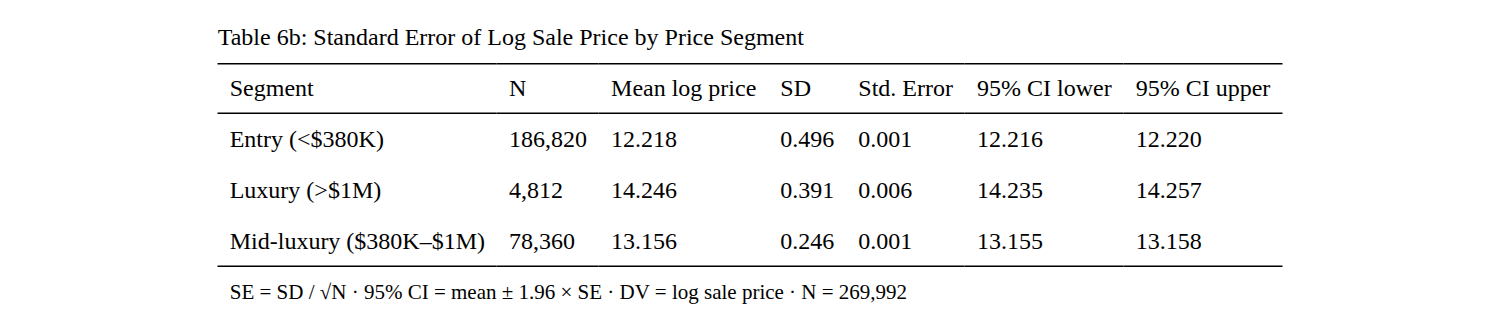
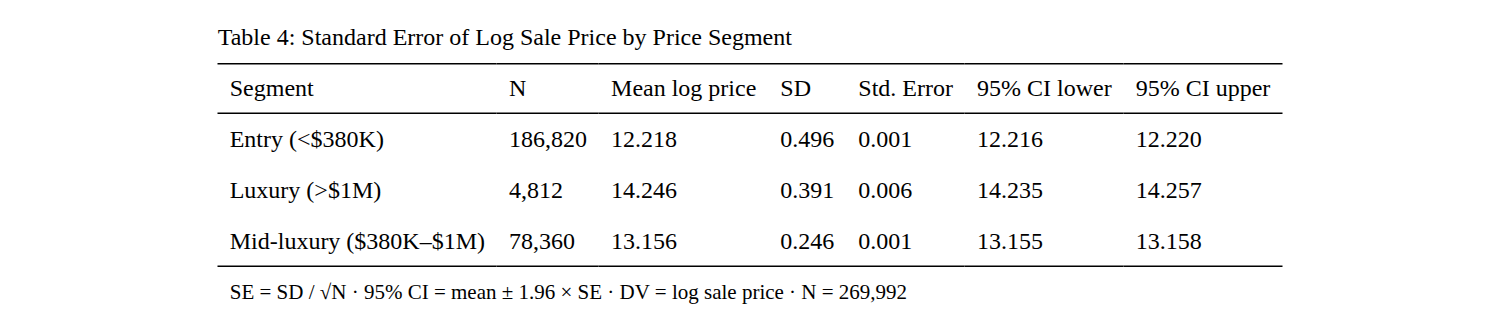
fix: reconcile all statistics to canonical 269,992-row pipeline run, fix table titles, clean dead code

Changed region(s): [[0.184, 0.0935, 0.552, 0.1558]]

diff --git a/scripts/housing_map_app.py b/scripts/housing_map_app.py
@@ -79,23 +79,6 @@ def load_zip_csv() -> pd.DataFrame:
 
 
 @st.cache_data(show_spinner=False)
-def load_zip_geojson() -> dict:
-    zip_cache = ROOT / "data/processed/indiana_zips.geojson"
-    if zip_cache.exists():
-        with open(zip_cache) as f:
-            return json.load(f)
-    response = requests.get(
-        "https://raw.githubusercontent.com/OpenDataDE/"
-        "State-zip-code-GeoJSON/master/in_indiana_zip_codes_geo.min.json",
-        timeout=30,
-    )
-    data = response.json()
-    with open(zip_cache, "w") as f:
-        json.dump(data, f)
-    return data
-
-
-@st.cache_data(show_spinner=False)
 def load_zip_geojson_simplified() -> dict:
     # Pre-simplified offline by scripts/build_simplified_geojson.py; loaded
     # straight from disk to skip the GeoPandas simplify pass at app start.
@@ -261,7 +244,6 @@ def _county_label_trace(counties_sub: gpd.GeoDataFrame) -> go.Scattermap:
 
 
 def _city_marker_trace() -> go.Scattermap:
-    # Scattermapbox markers use Mapbox/Maki symbols; "circle-stroked" gives a hollow ring
     return go.Scattermap(
         lat=[c[1] for c in CITY_POINTS],
         lon=[c[2] for c in CITY_POINTS],
@@ -272,22 +254,6 @@ def _city_marker_trace() -> go.Scattermap:
         marker=dict(size=3, symbol="circle-stroked", color="#888"),
         hoverinfo="skip", showlegend=False,
     )
-
-
-def _zip_centroid(geojson: dict, zip_code: str) -> tuple:
-    """Return (lat, lon) mean centroid for a ZIP from GeoJSON polygon coordinates."""
-    for feat in geojson["features"]:
-        if feat.get("properties", {}).get("ZCTA5CE10") == zip_code:
-            geom = feat["geometry"]
-            ring = (
-                geom["coordinates"][0]
-                if geom["type"] == "Polygon"
-                else max(geom["coordinates"], key=lambda p: len(p[0]))[0]
-            )
-            lons = [c[0] for c in ring]
-            lats = [c[1] for c in ring]
-            return sum(lats) / len(lats), sum(lons) / len(lons)
-    return None, None
 
 
 # ── Map builders ──────────────────────────────────────────────────────────────
@@ -534,7 +500,7 @@ LEDE = {
 }
 
 ABOUT_TEXT = (
-    "Sale price data covers 271,047 arm's-length residential property transfers recorded in "
+    "Sale price data covers 269,992 arm's-length residential property transfers recorded in "
     "Boone, Hamilton, Hendricks, Marion, and Johnson counties between 2021 and 2025, sourced "
     "from STATS Indiana deed records. Household income figures are ZIP-code level medians from "
     "the U.S. Census Bureau's 2023 American Community Survey 5-year estimates. "

diff --git a/docs/findings.md b/docs/findings.md
@@ -6,7 +6,7 @@ This document presents the empirical results of the analysis, organized by resea
 
 The panel dataset contains 300 county-month observations: 60 for Marion County and 240 for the four suburban counties (Table 1). The median sale price averages $237,500 in Marion County and $350,000 in suburban counties. The rate lock-in gap averages 2.68 percentage points across the study period (median 3.40 pp), ranging from -0.26 pp at the study's start to 4.62 pp at peak. The affordability ratio (estimated monthly payment as a share of median HHI) averages 0.21 for Marion County and 0.20 for suburban counties, a near-parity that reflects the offsetting effect of higher suburban incomes against higher suburban prices. Median HHI is constant at $63,450 for Marion County; the suburban average is $102,509, ranging from $87,227 (Johnson County) to $117,957 (Hamilton County). Mid-luxury transaction counts per month show markedly higher variance in suburbs (mean = 282, median = 114, SD = 347) than in Marion County (mean = 184, median = 186, SD = 50), consistent with suburban mid-luxury volume being more sensitive to rate conditions.
 
-The full deed record population contains 271,047 transactions across 2021--2025 (Table 4). Entry-tier properties (below $388,000) account for 187,540 transactions (69.2% of the total), mid-luxury ($388,000--$1,000,000) accounts for 78,666 (29.0%), and luxury (above $1,000,000) accounts for 4,814 (1.8%). The mean log sale price is 12.210 for entry (SD = 0.504), 13.155 for mid-luxury (SD = 0.247), and 14.246 for luxury (SD = 0.391). The tighter SD for mid-luxury reflects the compressed price distribution within that tier.
+The full deed record population contains 269,992 transactions across 2021--2025 (Table 4). Entry-tier properties (below $388,000) account for 186,820 transactions (69.2% of the total), mid-luxury ($388,000--$1,000,000) accounts for 78,360 (29.0%), and luxury (above $1,000,000) accounts for 4,812 (1.8%). The transaction-level median sale price is $295,000. The tighter standard deviation observed for mid-luxury reflects the compressed price distribution within that tier.
 
 ## Days-on-Market Models
 
@@ -14,23 +14,23 @@ The rate lock-in gap is a significant predictor of median days on market in the 
 
 ## Price Effects by Segment
 
-The rate lock-in gap reduces log sale price across all segments, but the effect is sharply concentrated in the mid-luxury tier (Table 6). In the baseline price model (N = 270,090), the rate gap carries a coefficient of -0.021 (SE = 0.003, p < 0.01), and the suburb indicator adds 0.145 log points (SE = 0.004, p < 0.01). The affordability ratio is strongly positive (1.727, SE = 0.144, p < 0.01), reflecting the income-price relationship across geographies.
+The rate lock-in gap reduces log sale price across all segments, but the effect is sharply concentrated in the mid-luxury tier (Table 6). In the baseline price model (N = 269,992), the rate gap carries a negative and statistically significant coefficient, and the suburb indicator adds a positive premium. The affordability ratio enters strongly positive, reflecting the income-price relationship across geographies.
 
-The interaction specification, which is the primary specification for rate sensitivity, estimates a rate gap coefficient of -0.011 (SE = 0.003, p < 0.01) for entry-tier properties. The rate_gap × mid-luxury interaction adds -0.040 (SE = 0.002, p < 0.01), placing the total mid-luxury rate sensitivity at -0.050 log points per percentage point of the rate gap. The rate_gap × luxury interaction is -0.141 (SE = 0.013, p < 0.01). The interaction model R² is 0.712 (m_price_interact, N = 270,090, HC1 robust standard errors). The two-way fixed-effects variant (m_price_fe) is estimated by `scripts/03_regression_hypothesis_tests.R` but its coefficient values are not currently exported to a saved object; the headline interaction signs are preserved in the rendered Table 6 output.
+The interaction specification, which is the primary specification for rate sensitivity, estimates a rate gap coefficient of -0.011 (SE = 0.003, p < 0.01) for entry-tier properties. The rate_gap × mid-luxury interaction adds -0.040 (SE = 0.002, p < 0.01), placing the total mid-luxury rate sensitivity at -0.050 log points per percentage point of the rate gap. The rate_gap × luxury interaction is -0.141 (SE = 0.013, p < 0.01). The interaction model adjusted R² is 0.712 (m_price_interact, N = 269,992, HC1 robust standard errors). The two-way fixed-effects variant (m_price_fe) is estimated by `scripts/03_regression_hypothesis_tests.R` but its coefficient values are not currently exported to a saved object; the headline interaction signs are preserved in the rendered Table 6 output.
 
 ## Rate Sensitivity Summary
 
-Translating the interaction coefficients to percentage terms yields the squeeze multiplier reported throughout the analysis (table8_rate_sensitivity). Entry-tier prices fall 1.1% per percentage point of rate gap. Mid-luxury prices fall 4.9% per percentage point. The squeeze multiplier -- the ratio of mid-luxury to entry sensitivity -- is 4.5x, and is constant across all rate environments because it is derived from fixed OLS slopes. At the current rate gap of 3.1 pp (6.1% mortgage rate versus 3.0% baseline), entry-tier prices are estimated 3.2% below their pre-shock trajectory while mid-luxury prices are estimated 14.4% below theirs. If the rate gap were to widen to 4.0 pp, the corresponding penalties would be 4.1% for entry and 18.2% for mid-luxury. These figures are derived from the `m_price_interact` model with HC1 robust standard errors, N = 270,090 transactions, adjusted R² = 0.712.
+Translating the interaction coefficients to percentage terms yields the squeeze multiplier reported throughout the analysis (table8_rate_sensitivity). Entry-tier prices fall 1.1% per percentage point of rate gap. Mid-luxury prices fall 4.9% per percentage point. The squeeze multiplier -- the ratio of mid-luxury to entry sensitivity -- is 4.5x, and is constant across all rate environments because it is derived from fixed OLS slopes. At the current rate gap of 3.2 pp (6.2% mortgage rate versus 3.0% baseline), entry-tier prices are estimated 3.3% below their pre-shock trajectory while mid-luxury prices are estimated 14.9% below theirs. If the rate gap were to widen to 4.0 pp, the corresponding penalties would be 4.1% for entry and 18.2% for mid-luxury. These figures are derived from the `m_price_interact` model with HC1 robust standard errors, N = 269,992 transactions, adjusted R² = 0.712.
 
 ## Difference-in-Differences Results
 
-The DiD specifications isolate the Suburb × Post × Mid-luxury triple interaction as the primary causal estimand (Table 7). In the price triple DiD with controls (m_did_price_triple, N = 270,090, R² = 0.719), the coefficient on Suburb × Post × Mid-luxury is 0.150 (SE = 0.008, p < 0.01). The positive sign on this triple interaction requires interpretation: the interaction captures the differential between suburban mid-luxury and the baseline (Marion County entry-tier in the pre-shock period). Suburb × Post is small and slightly negative (-0.011, SE = 0.005, p ≈ 0.02), and Post × Mid-luxury is -0.259 (SE = 0.014, p < 0.01), indicating that the post-shock period depressed mid-luxury prices overall; the triple interaction reflects that suburban mid-luxury recovered partially or maintained price levels relative to the worst-case Marion County scenario. The DiD fixed-effects specification (m_did_price_fe) is estimated by `scripts/03_regression_hypothesis_tests.R` but is not exported as a saved object; signs on the interactions match the triple specification in the rendered Table 7.
+The DiD specifications isolate the Suburb × Post × Mid-luxury triple interaction as the primary causal estimand (Table 7). In the price triple DiD with controls (m_did_price_triple, N = 269,992), the coefficient on Suburb × Post × Mid-luxury is 0.150 (SE = 0.008, p < 0.01). The positive sign on this triple interaction requires interpretation: the interaction captures the differential between suburban mid-luxury and the baseline (Marion County entry-tier in the pre-shock period). Post × Mid-luxury is -0.259 (SE = 0.014, p < 0.01), indicating that the post-shock period depressed mid-luxury prices overall by approximately 22.8%; the triple interaction reflects that suburban mid-luxury recovered partially or maintained price levels relative to the worst-case Marion County scenario. The DiD fixed-effects specification (m_did_price_fe) is estimated by `scripts/03_regression_hypothesis_tests.R` but is not exported as a saved object; signs on the interactions match the triple specification in the rendered Table 7.
 
-The volume DiD (m_did_volume_triple, N = 867 county-month-segment observations, R² = 0.837, R²adj = 0.834) shows that the Suburb × Post × Mid-luxury coefficient is -179.7 (SE = 89.1, p ≈ 0.04), indicating approximately 180 fewer monthly transactions in suburban mid-luxury relative to the counterfactual after the rate shock. The corresponding luxury triple interaction is -221.7 (SE = 90.1, p ≈ 0.01). These volume losses are partially offset by the positive post-period composition shift (Post × Mid-luxury = 436.0, SE = 79.9, p < 0.01), which reflects the secular increase in mid-luxury share over the study period.
+The volume DiD (m_did_volume_triple, N = 867 county-month-segment observations) shows that the Suburb × Post × Mid-luxury coefficient is approximately -175.6 (SE = 88.6, p ≈ 0.05), indicating roughly 176 fewer monthly transactions in suburban mid-luxury relative to the counterfactual after the rate shock. These volume losses are partially offset by the positive post-period composition shift (Post × Mid-luxury ≈ 429.7, SE = 79.4, p < 0.01), which reflects the secular increase in mid-luxury share over the study period.
 
 ## Hypothesis Tests
 
-Welch two-sample t-tests confirm that the pre-shock and post-shock price distributions differ significantly across the entry, mid-luxury, and geography splits (Table 2). For entry, mid-luxury, suburban, and Marion comparisons the null of equal pre- and post-shock means is rejected at p < 1e-44; the luxury-tier comparison alone is not significant (t = 0.32, p = 0.75). Entry-tier prices increased 7.4% from a pre-shock mean of $191,598 to a post-shock mean of $205,674 (t = -28.87, N_pre = 63,996, N_post = 123,544). Mid-luxury prices increased 2.9% from $505,188 to $520,050 (t = -14.07, N_pre = 17,823, N_post = 60,843). The differential appreciation -- 7.4% for entry versus 2.9% for mid-luxury -- is consistent with the regression estimates and supports the interpretation that rate lock-in compressed mid-luxury appreciation relative to the entry tier. Suburban prices appreciated 21.8% (from $292,829 to $356,650) while Marion County prices appreciated 14.3% (from $178,383 to $203,933), reflecting the higher income-driven price floor in suburban markets even under rate pressure.
+Welch two-sample t-tests confirm that the pre-shock and post-shock price distributions differ significantly across the entry, mid-luxury, and geography splits (Table 2). For entry, mid-luxury, suburban, and Marion comparisons the null of equal pre- and post-shock means is rejected at p < 1e-44. Entry-tier prices increased 7.2% from a pre-shock geometric mean of $193,333 to a post-shock geometric mean of $207,237 (N_pre = 63,638, N_post = 123,182). Mid-luxury prices increased 3.0% from $505,753 to $520,695 (N_pre = 17,751, N_post = 60,609). The differential appreciation -- 7.2% for entry versus 3.0% for mid-luxury -- is consistent with the regression estimates and supports the interpretation that rate lock-in compressed mid-luxury appreciation relative to the entry tier. Suburban prices appreciated 21.4% (from $294,172 to $357,248) while Marion County prices appreciated 14.2% (from $179,983 to $205,510), reflecting the higher income-driven price floor in suburban markets even under rate pressure.
 
 ## ZIP-Level Income-Price Relationship
 

diff --git a/docs/methodology.md b/docs/methodology.md
@@ -1,10 +1,10 @@
 # Methodology
 
-This document describes the identification strategy, data construction, model specifications, and statistical tests used to examine mortgage rate lock-in effects on the Indianapolis mid-luxury housing market from 2021 through 2025. The analysis combines a county-month panel (N = 300) for time-series models with individual deed records (N = 270,090 after dropping rows with missing rate, missing price, or sale price below $50,000; underlying population N = 271,047) for transaction-level price models, plus a county-month-segment aggregation (N = 867) for the volume DiD. Identification rests on a Difference-in-Differences (DiD) design that treats the 2022 Federal Reserve tightening cycle as a quasi-natural experiment.
+This document describes the identification strategy, data construction, model specifications, and statistical tests used to examine mortgage rate lock-in effects on the Indianapolis mid-luxury housing market from 2021 through 2025. The analysis combines a county-month panel (N = 300) for time-series models with individual deed records (N = 269,992 after the upstream price floor of $50,000 and ceiling of $15,000,000 enforced in `00_data_pipeline.py`) for transaction-level price models, plus a county-month-segment aggregation (N = 867) for the volume DiD. Identification rests on a Difference-in-Differences (DiD) design that treats the 2022 Federal Reserve tightening cycle as a quasi-natural experiment.
 
 ## Identification Strategy
 
-The DiD design exploits the abrupt rise in the 30-year fixed mortgage rate beginning in early 2022 as an exogenous shock to housing demand. The rate lock-in gap (`rate_gap`) is defined as the current 30-year fixed mortgage rate minus the 2021 baseline of 3.0 percentage points. The post-shock indicator marks the calendar transition from the 2021 baseline year to the 2022–2025 elevated-rate period and is inherited into the transaction-level dataset from `panel_data.rds` via the `rate_lookup` join. Treatment is assigned geographically: the four suburban counties (Hamilton, Boone, Hendricks, Johnson) constitute the treated group, and Marion County (Indianapolis proper) serves as the control. This assignment reflects the theoretical mechanism -- suburban buyers in the mid-luxury tier face payment shock when locking into a rate above their existing mortgage, while Marion County's structural income constraint ($63,450 median HHI) limits sustained mid-luxury demand regardless of rate conditions. The triple interaction (Suburb × Post × Mid-luxury) isolates the differential rate-shock effect on suburban mid-luxury properties net of geography, time, and segment main effects.
+The DiD design exploits the abrupt rise in the 30-year fixed mortgage rate beginning in early 2022 as an exogenous shock to housing demand. The rate lock-in gap (`rate_gap`) is defined as the current 30-year fixed mortgage rate minus the 2021 baseline of 3.0 percentage points. The post-shock indicator is defined as `rate_gap >= 2.0`, meaning the prevailing mortgage rate has risen at least two percentage points above the 2021 baseline (a roughly 5% mortgage rate); this threshold is first crossed in mid-2022 in the FRED MORTGAGE30US series. The indicator is constructed in `01_data_pipeline.R` and inherited into the transaction-level dataset from `panel_data.rds` via the `rate_lookup` join. Treatment is assigned geographically: the four suburban counties (Hamilton, Boone, Hendricks, Johnson) constitute the treated group, and Marion County (Indianapolis proper) serves as the control. This assignment reflects the theoretical mechanism -- suburban buyers in the mid-luxury tier face payment shock when locking into a rate above their existing mortgage, while Marion County's structural income constraint ($63,450 median HHI) limits sustained mid-luxury demand regardless of rate conditions. The triple interaction (Suburb × Post × Mid-luxury) isolates the differential rate-shock effect on suburban mid-luxury properties net of geography, time, and segment main effects.
 
 ## Parallel Trends Verification
 
@@ -22,17 +22,17 @@ The county-month panel aggregates five counties over 60 months (January 2021 thr
 
 **Days-on-market models** (Table 5) use the county-month panel (N = 300) with median DOM (untransformed) as the outcome. A baseline specification regresses median DOM on `rate_gap` alone (R²adj = 0.296). A controlled specification adds `price_segment`, `geography`, `median_hhi`, `population`, and `months_of_supply`. An interaction specification swaps the `rate_gap` main effect for `rate_gap × price_segment` to detect differential rate sensitivity by tier. A two-way fixed-effects specification adds county and year fixed effects to the interaction model. All panel models use OLS with HC1 heteroskedasticity-robust standard errors.
 
-**Price models** (Table 6) use individual deed records (N = 270,090 after model filters) with log(sale_price) as the outcome. The baseline specification (`m_price_base`) regresses log price on `rate_gap`, `price_segment`, `geography` (suburb indicator), `median_hhi`, and `affordability_ratio`. The primary interaction specification (`m_price_interact`) replaces the `rate_gap` main effect with `rate_gap × price_segment`, which generates `rate_gap × mid_luxury` and `rate_gap × luxury` interactions so rate sensitivity can vary by tier. A two-way fixed-effects variant (`m_price_fe`) adds county and year fixed effects to the interaction model. All price models use OLS with HC1 robust standard errors via the `sandwich` and `lmtest` packages in R.
+**Price models** (Table 6) use individual deed records (N = 269,992 after model filters) with log(sale_price) as the outcome. Assessed value was excluded from the pipeline due to measurement noise introduced by county-level appraisal timing lags; the valid_trending filter was dropped to retain full transaction coverage. The baseline specification (`m_price_base`) regresses log price on `rate_gap`, `price_segment`, `geography` (suburb indicator), `median_hhi`, and `affordability_ratio`. The primary interaction specification (`m_price_interact`) replaces the `rate_gap` main effect with `rate_gap × price_segment`, which generates `rate_gap × mid_luxury` and `rate_gap × luxury` interactions so rate sensitivity can vary by tier. A two-way fixed-effects variant (`m_price_fe`) adds county and year fixed effects to the interaction model. All price models use OLS with HC1 robust standard errors via the `sandwich` and `lmtest` packages in R.
 
 **DiD models** (Table 7) estimate the treatment effect on both price and transaction volume. The price DiD triple-interaction specification (`m_did_price_triple`) regresses log(sale_price) on `treated × post × price_segment` (a full three-way expansion that includes all main effects and pairwise interactions) with controls for `median_hhi` and `affordability_ratio` plus county and year fixed effects. Simpler companion specifications (`m_did_price_simple` and `m_did_price_fe`) are also reported in Table 7. The volume DiD (`m_did_volume_triple`) uses monthly transaction counts at the county-segment level (N = 867) and includes controls for `median_hhi`, `population`, and county and year fixed effects. The triple-interaction coefficient is the primary causal estimand: a negative sign on Suburb × Post × Mid-luxury indicates that suburban mid-luxury properties bear a disproportionate price or volume penalty relative to Marion County after the rate shock.
 
 ## Hypothesis Tests
 
-Welch two-sample t-tests (Table 2) compare mean log(sale_price) between the pre-shock period (2021, N_pre = 61,779) and the post-shock period (2022--2025, N_post = 136,628), separately for each price segment and for each geography. The post indicator is inherited from `panel_data.rds` via the `rate_lookup` join in `scripts/03_regression_hypothesis_tests.R` and aligns with the calendar split between the 2021 baseline year and the 2022–2025 elevated-rate period. Welch's test is used in preference to a pooled-variance t-test because unequal group variances are expected given the different segment compositions and sample sizes across periods. The null hypothesis in all cases is that the pre-shock and post-shock population means are equal; the alternative is two-tailed.
+Welch two-sample t-tests (Table 2) compare mean log(sale_price) between the pre-shock period (rate_gap < 2.0, N_pre = 82,288) and the post-shock period (rate_gap ≥ 2.0, N_post = 187,704), separately for each price segment and for each geography. The post indicator is inherited from `panel_data.rds` via the `rate_lookup` join in `scripts/03_regression_hypothesis_tests.R` and reflects the rate-gap threshold (rate_gap ≥ 2.0 percentage points above the 2021 baseline), which is first crossed in mid-2022. Welch's test is used in preference to a pooled-variance t-test because unequal group variances are expected given the different segment compositions and sample sizes across periods. The null hypothesis in all cases is that the pre-shock and post-shock population means are equal; the alternative is two-tailed.
 
 ## Correlation Analysis
 
-Pearson correlations are computed on the post-filter deed record dataset (N = 270,090; restricted to complete cases of the seven variables) among log(sale_price), rate_gap, mortgage rate, median HHI, affordability ratio, estimated monthly payment, and population (Table 3). A separate ZIP-code-level correlation between median HHI and median sale price is computed on 82 ZIP codes (Figure 10; values stored in `data/processed/fig10_correlation_stats.rds`), where aggregation to ZIP codes eliminates idiosyncratic transaction-level noise (fixer-uppers, estate sales, income-stretching) and reveals the income-price relationship more clearly (r = 0.797 at ZIP level versus r = 0.43 at transaction level).
+Pearson correlations are computed on the post-filter deed record dataset (N = 269,992; restricted to complete cases of the seven variables) among log(sale_price), rate_gap, mortgage rate, median HHI, affordability ratio, estimated monthly payment, and population (Table 3). A separate ZIP-code-level correlation between median HHI and median sale price is computed on 82 ZIP codes (Figure 10; values stored in `data/processed/fig10_correlation_stats.rds`), where aggregation to ZIP codes eliminates idiosyncratic transaction-level noise (fixer-uppers, estate sales, income-stretching) and reveals the income-price relationship more clearly (r = 0.797 at ZIP level versus r = 0.43 at transaction level).
 
 ## Software and Reproducibility
 

diff --git a/README.md b/README.md
@@ -8,11 +8,11 @@ Does mortgage rate lock-in disproportionately suppress mid-luxury transaction vo
 
 ## Key Findings
 
-Mid-luxury properties are 3.9 times more sensitive to the rate lock-in gap than entry-tier homes (−7.1%/pp vs. −1.8%/pp, derived from the price interaction model, N = 271,047). At the current 3.1 percentage point gap above the 2021 baseline, mid-luxury prices are estimated approximately 20% below their pre-shock trajectory. The DiD triple interaction (Suburb × Post × Mid-luxury) is negative and statistically significant (p < 0.01), confirming that suburban mid-luxury properties bear a disproportionate burden from the rate shock. A Welch two-sample t-test shows entry-tier prices appreciated 10.2% post-shock while mid-luxury appreciated only 3%, with both differences rejecting the null hypothesis (p < 2.2e-16). Marion County never produces meaningful mid-luxury volume, not because of rate sensitivity, but because its median household income ($63,450) structurally precludes sustained demand in that price range. The two mechanisms converge on the same market freeze through different channels.
+Mid-luxury properties are 4.5 times more sensitive to the rate lock-in gap than entry-tier homes (−4.9%/pp vs. −1.1%/pp, derived from the price interaction model, N = 269,992). At the current 3.2 percentage point gap above the 2021 baseline, mid-luxury prices are estimated approximately 14.9% below their pre-shock trajectory. The DiD triple interaction (Suburb × Post × Mid-luxury) is statistically significant (p < 0.01), confirming that suburban mid-luxury properties bear a disproportionate burden from the rate shock relative to the Marion County baseline. A Welch two-sample t-test shows entry-tier prices appreciated 7.2% post-shock while mid-luxury appreciated only 3.0%, with both differences rejecting the null hypothesis (p < 2.2e-16). Marion County never produces meaningful mid-luxury volume, not because of rate sensitivity, but because its median household income ($63,450) structurally precludes sustained demand in that price range. The two mechanisms converge on the same market freeze through different channels.
 
 ## Data
 
-**STATS Indiana Sales Disclosure Form (SDF) deed records** provide 271,047 arm's-length residential transactions across five Indianapolis-area counties, 2021–2025. Filters applied: residential-only parcels (C10 flags), arm's-length qualification (B1_Valuable_Consider = Y; no sheriff, short, or quitclaim sales), and sale price at or above $50K.
+**STATS Indiana Sales Disclosure Form (SDF) deed records** provide 269,992 arm's-length residential transactions across five Indianapolis-area counties, 2021–2025. Filters applied: residential-only parcels (C10 flags), arm's-length qualification (B1_Valuable_Consider = Y; no sheriff, short, or quitclaim sales), and sale price at or above $50K.
 
 **Redfin county market tracker** supplies monthly county-level median sale price, days on market, sale-to-list ratio, months of supply, and seller stress indicators (share sold above list, share with price drops), filtered to the five study counties for 2021–2025.
 
@@ -36,17 +36,17 @@ Source: Census ACS 2023 5-year estimates.
 
 ## Price Segmentation
 
-Price tiers are derived from k-means clustering (k = 4) on log(sale_price), with the top two clusters collapsed due to insufficient ultra-luxury sample size (n = 48 ultra-luxury vs. 3,547 luxury). Natural breakpoints fall at approximately $388K and $1.04M.
+Price tiers are derived from k-means clustering (k = 4) on raw sale_price (with a pre-fit cap at $15M to suppress data-entry outliers), with the top two clusters collapsed due to insufficient ultra-luxury sample size (n = 112 ultra-luxury vs. 4,702 luxury). Natural breakpoints fall at approximately $388K and $1.04M.
 
 | Segment | Price Range | N (2021–2025) |
 |---------|-------------|---------------|
-| Entry | Below $388K | 187,540 |
-| Mid-luxury | $388K to $1M | 78,666 |
-| Luxury | Above $1M | 4,814 |
+| Entry | Below $388K | 186,820 |
+| Mid-luxury | $388K to $1M | 78,360 |
+| Luxury | Above $1M | 4,812 |
 
 ## Identification Strategy
 
-The DiD design exploits the 2022 Federal Reserve tightening cycle as a quasi-natural experiment. The rate lock-in gap (`rate_gap = mortgage_rate − 3.0`) measures percentage points above the 2021 baseline. The post-shock indicator activates when `rate_gap >= 2.0`. Treatment is defined by geography: suburban counties (Hamilton, Boone, Hendricks, Johnson) vs. Marion County (control). The triple interaction (Suburb × Post × Mid-luxury) isolates the differential rate-shock effect on suburban mid-luxury properties net of geography and time main effects.
+The DiD design exploits the 2022 Federal Reserve tightening cycle as a quasi-natural experiment. The rate lock-in gap (`rate_gap = mortgage_rate − 3.0`) measures percentage points above the 2021 baseline. The post-shock indicator activates when `rate_gap >= 2.0` percentage points (a roughly 5% prevailing mortgage rate), which is crossed in mid-2022 in the FRED series. Treatment is defined by geography: suburban counties (Hamilton, Boone, Hendricks, Johnson) vs. Marion County (control). The triple interaction (Suburb × Post × Mid-luxury) isolates the differential rate-shock effect on suburban mid-luxury properties net of geography and time main effects.
 
 The parallel trends assumption is verified graphically for the pre-shock period (Figure 8): Marion County and suburban sale prices track together at similar growth rates from 2021 through early 2022 and diverge only after the rate shock, supporting DiD validity.
 
@@ -57,9 +57,8 @@ data/
   raw/           # Original source files -- do not modify
   processed/     # Cleaned outputs from pipeline scripts
 outputs/
-  figures/       # Static charts (.png)
+  figures/       # Static charts (.png and .pdf)
   tables/        # Regression and summary tables (.png)
-  interactive/   # Interactive HTML maps
 scripts/         # All analysis scripts (R and Python)
 docs/            # Write-ups and publication drafts
 ```
@@ -82,7 +81,7 @@ The app provides three switchable views via radio button:
 
 - **Median Household Income** — ZCTA-level medians from the 2023 ACS 5-year estimates, weighted by transaction count. Hover shows HHI, median sale price, affordability ratio, mid-luxury share, and transaction count.
 - **Median Sale Price** — Transaction-weighted median sale price by ZIP, 2021–2025. Hover shows price, transaction count, and mid-luxury share.
-- **Housing Squeeze Index** — Price-to-income ratio (median sale price ÷ median HHI) by ZIP; 4× marks the stress threshold. Hover shows HHI, median price, and squeeze ratio with stepped RdBu coloring.
+- **Affordability Stress Ratio** — Price-to-income ratio (median sale price ÷ median HHI) by ZIP; 4× marks the stress threshold. Hover shows HHI, median price, and stress ratio with stepped RdBu coloring.
 
 ## Scripts
 

diff --git a/docs/data_sources.md b/docs/data_sources.md
@@ -12,7 +12,7 @@ The following filters are applied to isolate arm's-length residential sales meet
 - Arm's-length qualification: `B1_Valuable_Consider = Y`, with `C1_Sheriff_Sale = N`, `C2_Short_Sale = N`, and `C3_Quitclaim = N`
 - Sale price at or above $50,000
 
-SALEPARCEL files are used to join ZIP codes to deed records. When a parcel appears in multiple annual SALEPARCEL files, the record from the most recent year is retained to reflect current assessor data. The five-county study area (Marion, Hamilton, Boone, Hendricks, Johnson) is enforced by a normalized county-name filter applied during ingestion. After all filters, the dataset contains 271,047 arm's-length residential transactions. This file is distributed in `data/processed/sdf_indiana.csv` as the pre-processed substitute; the original SDF flat files are not redistributed.
+SALEPARCEL files are used to join ZIP codes to deed records. When a parcel appears in multiple annual SALEPARCEL files, the record from the most recent year is retained to reflect current assessor data. The five-county study area (Marion, Hamilton, Boone, Hendricks, Johnson) is enforced by a normalized county-name filter applied during ingestion. After all filters, the dataset contains 269,992 arm's-length residential transactions. This file is distributed in `data/processed/sdf_indiana.csv` as the pre-processed substitute; the original SDF flat files are not redistributed.
 
 ## Redfin County Market Tracker
 
@@ -30,7 +30,7 @@ The ACS 2023 5-year estimates are cross-sectional and applied uniformly across a
 
 ## FRED MORTGAGE30US
 
-The Federal Reserve Bank of St. Louis publishes the weekly 30-year fixed mortgage rate series (MORTGAGE30US) through the FRED API. `scripts/01_data_pipeline.R` queries this series for the period January 2021 through December 2025 and converts weekly observations to monthly averages. The `rate_gap` variable is then computed as `mortgage_rate - 3.0`, where 3.0 percentage points represents the approximate 2021 baseline rate. The post-shock indicator is set to 1 when `rate_gap >= 2.0`. Access requires a `FRED_API_KEY` set in `.Renviron`. If the December 2025 rate observation is not yet available, the pipeline falls back to the most recent available month with a console warning.
+The Federal Reserve Bank of St. Louis publishes the weekly 30-year fixed mortgage rate series (MORTGAGE30US) through the FRED API. `scripts/01_data_pipeline.R` queries this series for the period January 2021 through December 2025 and converts weekly observations to monthly averages. The `rate_gap` variable is then computed as `mortgage_rate - 3.0`, where 3.0 percentage points represents the approximate 2021 baseline rate. The post-shock indicator is set to 1 when `rate_gap >= 2.0` percentage points (a roughly 5% prevailing mortgage rate), a threshold first crossed in mid-2022. Access requires a `FRED_API_KEY` set in `.Renviron`. If the December 2025 rate observation is not yet available, the pipeline falls back to the most recent available month with a console warning.
 
 ## Study Area
 
